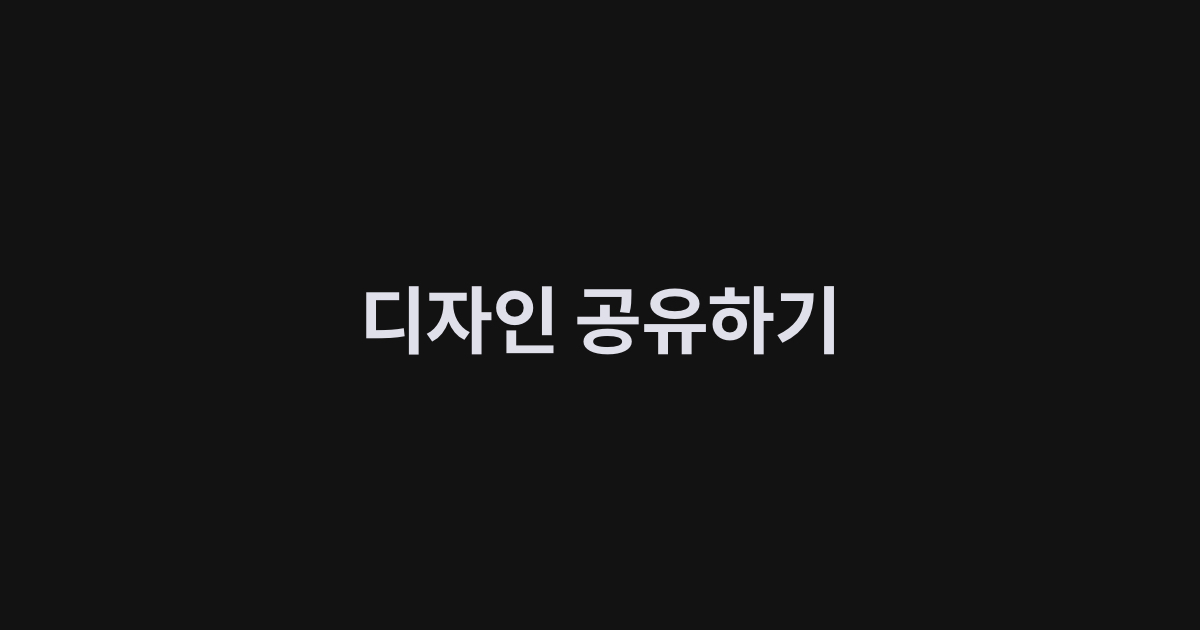
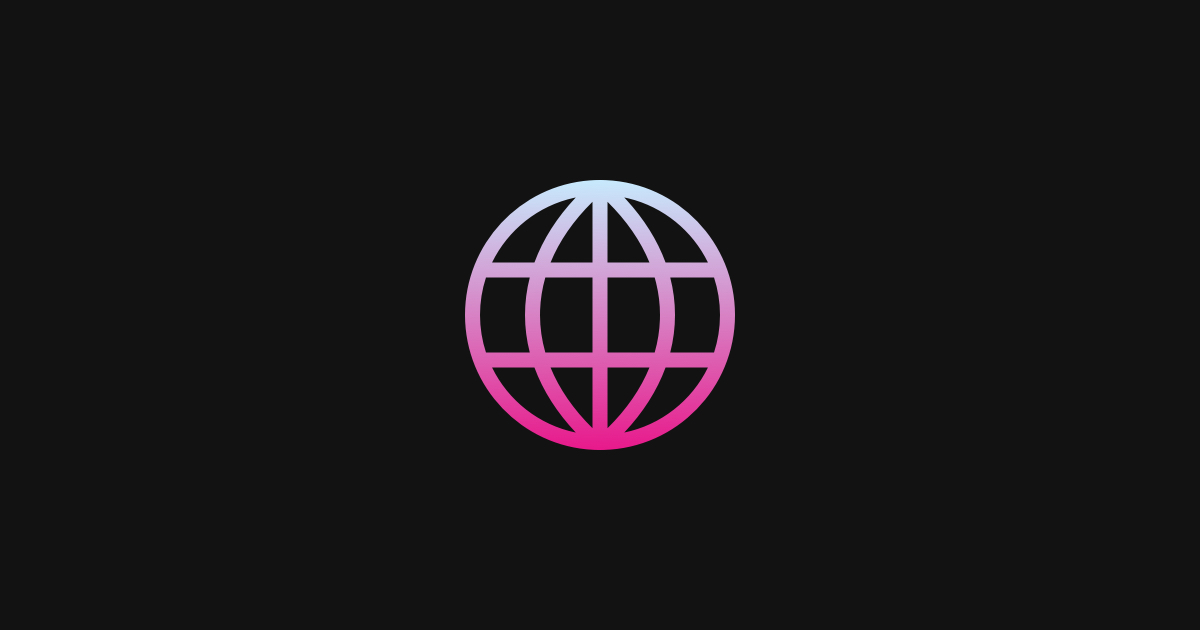
modify contact box border & ico image & share image

Changed region(s): [[0.2775, 0.2714, 0.7092, 0.7238]]

diff --git a/src/elements/framer-motion/skeleton-circle.tsx b/src/elements/framer-motion/skeleton-circle.tsx
@@ -1,17 +1,17 @@
 import { motion } from 'framer-motion';
 import styled from 'styled-components';
 
-interface SkeletonRectDate {
+interface SkeletonCircleDate {
   width: string;
   height: string;
-  duration: string;
+  duration: number;
 }
 
-const SkeletonRect = ({ width, height, duration }: SkeletonRectDate) => {
+const SkeletonCircle = ({ width, height, duration }: SkeletonCircleDate) => {
   return (
     <List width={width} height={height}>
       <motion.div
-        className="rect"
+        className="circle"
         variants={skeletonVariants(duration)}
         initial="start"
         animate="end"
@@ -20,23 +20,23 @@ const SkeletonRect = ({ width, height, duration }: SkeletonRectDate) => {
   );
 };
 
-export default SkeletonRect;
+export default SkeletonCircle;
 
-interface SkeletonRectList {
+interface SkeletonCircleList {
   width: string;
   height: string;
 }
 
-const List = styled.div<SkeletonRectList>`
-  .rect {
+const List = styled.div<SkeletonCircleList>`
+  .circle {
     width: ${({ width }) => width};
     height: ${({ height }) => height};
-    background-color: #999999;
-    border-radius: 2px;
+    background-color: ${({ theme }) => theme.gray7__40};
+    border-radius: 50%;
   }
 `;
 
-const skeletonVariants = (duration: string) => {
+const skeletonVariants = (duration: number) => {
   return {
     start: {
       opacity: 0.64,

diff --git a/src/components/page/article/article.tsx b/src/components/page/article/article.tsx
@@ -7,7 +7,6 @@ import { useWindowHeight } from '../../../lib/hooks/useWindowHeight';
 import ArticleTitleArea from './article-title-area';
 import ArticleToolBar from './article-tool-bar/article-tool-bar';
 import { useRouter } from 'next/router';
-import { detectBrowserLang } from '../../../lib/functions/detect-browser-lang';
 import { useEffect } from 'react';
 import { VisitsAndViewsDuringSession } from '../../../lib/functions/visits-and-views';
 
@@ -31,7 +30,6 @@ const Article = ({
   useEffect(() => {
     VisitsAndViewsDuringSession(router.pathname);
   }, []);
-  // detectBrowserLang();;
 
   return (
     <>

diff --git a/src/pages/contact.tsx b/src/pages/contact.tsx
@@ -7,13 +7,11 @@ import ProfileArea from '../components/page/contact/profile';
 import EmailArea from '../components/page/contact/email';
 import SocialArea from '../components/page/contact/social';
 import AboutArea from '../components/page/contact/about';
-import { detectBrowserLang } from '../lib/functions/detect-browser-lang';
 
 const Contact = ({ showToast }: { showToast: Function }) => {
   useEffect(() => {
     VisitsAndViewsDuringSession('Contact');
   }, []);
-  // detectBrowserLang();;
   bodyScrollTop();
 
   return (

diff --git a/src/pages/index.tsx b/src/pages/index.tsx
@@ -8,13 +8,11 @@ import Footer from '../components/page/index/footer';
 import ShareToolBar from '../components/page/index/share-tool-bar';
 import List from '../components/page/index/list';
 import { articleData } from '../data/article-data';
-import { detectBrowserLang } from '../lib/functions/detect-browser-lang';
 
 const Index = () => {
   useEffect(() => {
     VisitsAndViewsDuringSession('Home');
   }, []);
-  // detectBrowserLang();;
   bodyScrollTop();
   const data = articleData();
 

diff --git a/src/components/page/error/error-common.tsx b/src/components/page/error/error-common.tsx
@@ -3,11 +3,9 @@ import Link from 'next/link';
 import { t } from '../../../data/index/t';
 import PMedium400 from '../../../elements/typography/p-medium-400';
 import AloneButton from '../../button/alone-button';
-import { detectBrowserLang } from '../../../lib/functions/detect-browser-lang';
 
 const ErrorCommon = () => {
   const btnText = t.errorMessage.btn;
-  // detectBrowserLang();;
 
   return (
     <Main>

diff --git a/src/components/page/contact/about.tsx b/src/components/page/contact/about.tsx
@@ -109,6 +109,7 @@ const AboutDiv = styled.div`
   max-width: ${({ theme }) => theme.maxWidth.Paragraph};
   background-color: ${({ theme }) => theme.gray7__40};
   border-radius: ${({ theme }) => theme.borderRadius.R13};
+  border: solid 1px ${({ theme }) => theme.gray7};
 
   // 바뀌는 속성
   margin-top: 24px;

diff --git a/src/components/page/contact/profile.tsx b/src/components/page/contact/profile.tsx
@@ -30,6 +30,8 @@ const ProfileDiv = styled.div`
     height: 96px;
     border: solid 2px ${({ theme }) => theme.gray7};
     border-radius: 50%;
+    -webkit-transition: 1s ease-in-out;
+    transition: 1s ease-in-out;
 
     @media all and (max-width: ${mediaBreakPoint.first}) {
       width: 72px;

diff --git a/src/components/page/contact/email.tsx b/src/components/page/contact/email.tsx
@@ -46,6 +46,7 @@ const EmailDiv = styled.div`
   align-items: center;
   margin-top: 36px;
   background-color: ${({ theme }) => theme.gray7__40};
+  border: solid 1px ${({ theme }) => theme.gray7};
   border-radius: ${({ theme }) => theme.borderRadius.R13};
 
   // 바뀌는 속성

diff --git a/src/components/page/contact/social.tsx b/src/components/page/contact/social.tsx
@@ -65,4 +65,5 @@ const A = styled.a`
   display: flex;
   justify-content: center;
   align-items: center;
+  border: solid 1px ${({ theme }) => theme.gray7};
 `;
